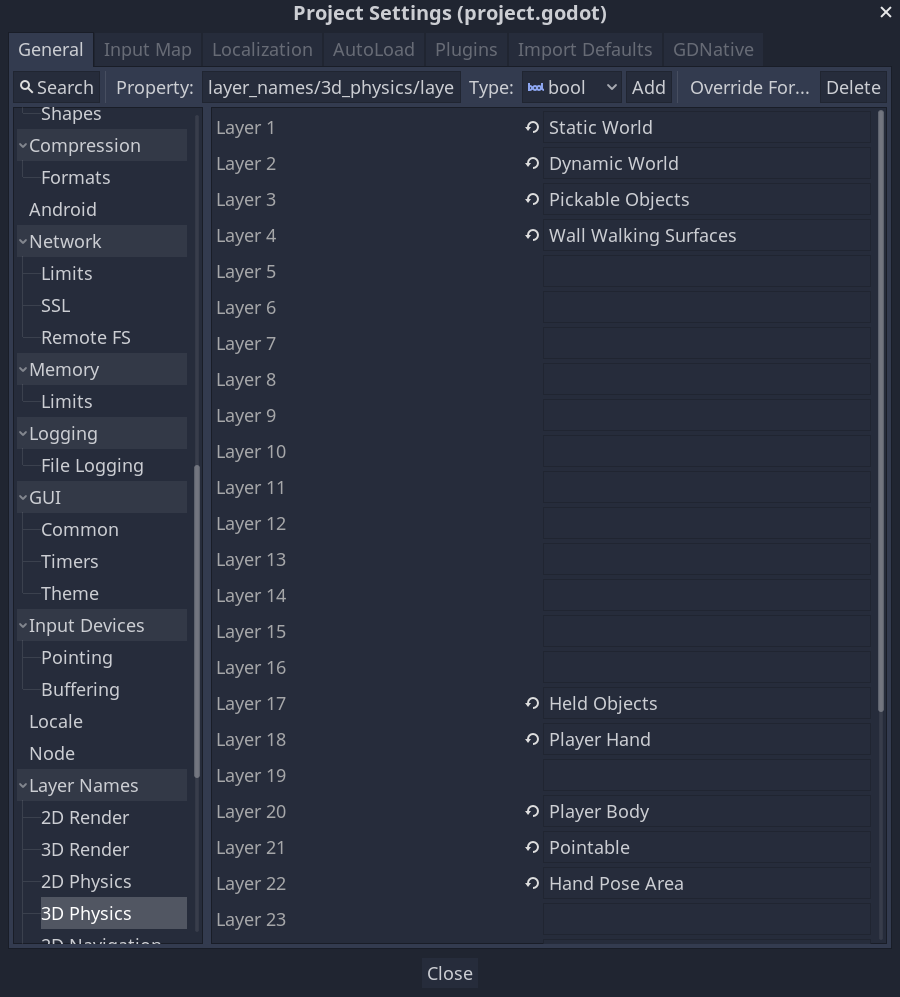
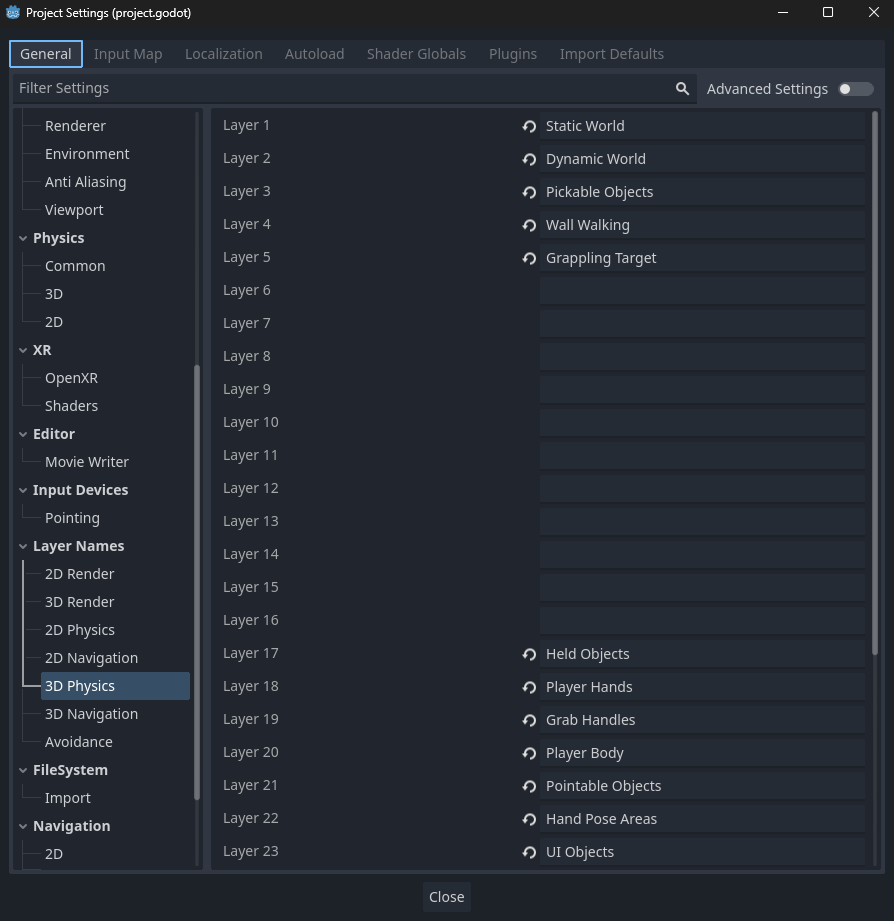
Updated physics layers and screenshots

Changed region(s): [[0.0, 0.0, 0.9966, 1.0], [0.9664, 0.0, 0.9966, 0.0304]]

diff --git a/_docs/concepts/physics_layers.md b/_docs/concepts/physics_layers.md
@@ -19,11 +19,14 @@ The following are the recommended physics layers:
  - [2] Dynamic World - for scenery objects which may move
  - [3] Pickable Objects - for [pickable]({{ site.url }}/docs/pickable/) objects
  - [4] Wall Walking Surface - for objects the player can [wall walk]({{ site.url }}/docs/wall_walk/) on
+ - [5] Grappling Target - for grappling movement
  - [17] Held Objects - for [pickable]({{ site.url }}/docs/pickable/) objects held by the player
  - [18] Player Hand - for the players [physical hand]({{ site.url }}/docs/hand_models/) bones
+ - [19] Grab handles - for pickable objects
  - [20] Player Body - for the players [body]({{ site.url }}/docs/player_body/)
  - [21] Pointable - for objects the player can interact with using the [pointer]({{ site.url }}/docs/pointer/)
  - [22] Hand Pose Area - for areas enforcing hand poses
+ - [23] UI Objects - for physically touchable UIs using the pointer or finger poke
 
 ![Physics Layers]({{ site.url }}/assets/img/physics_layers/physics_layers_config.png)
 
